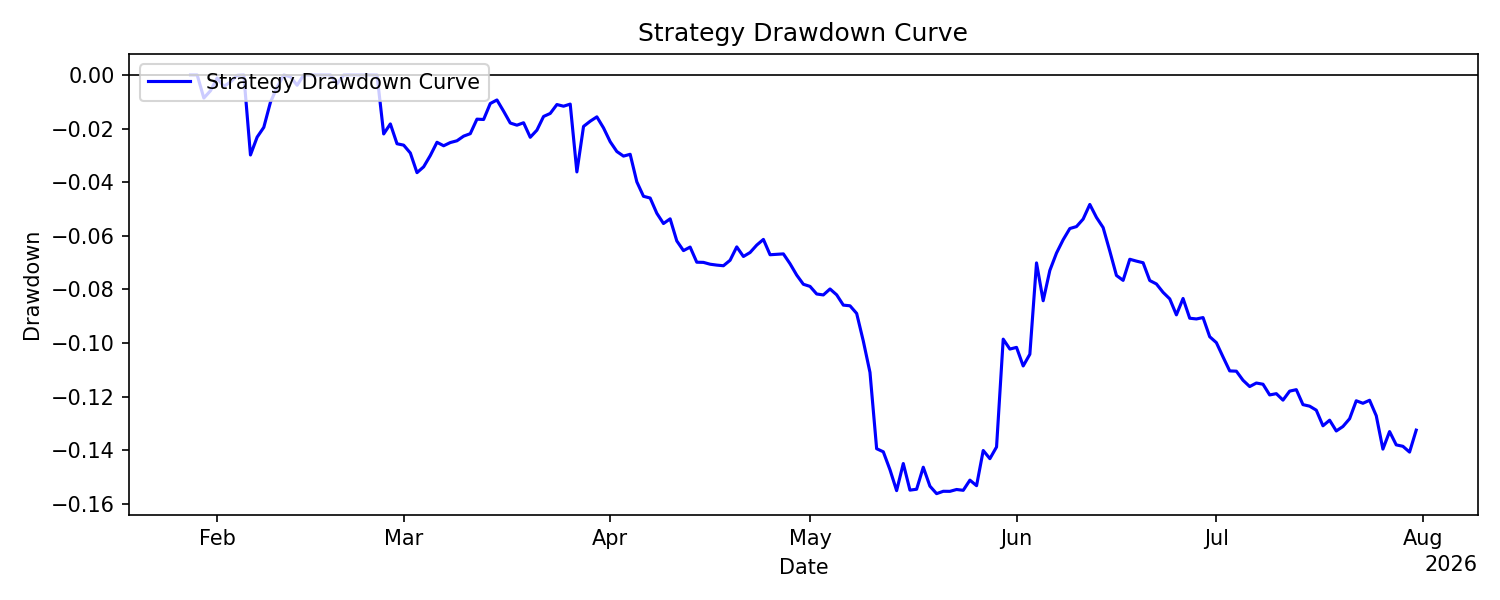
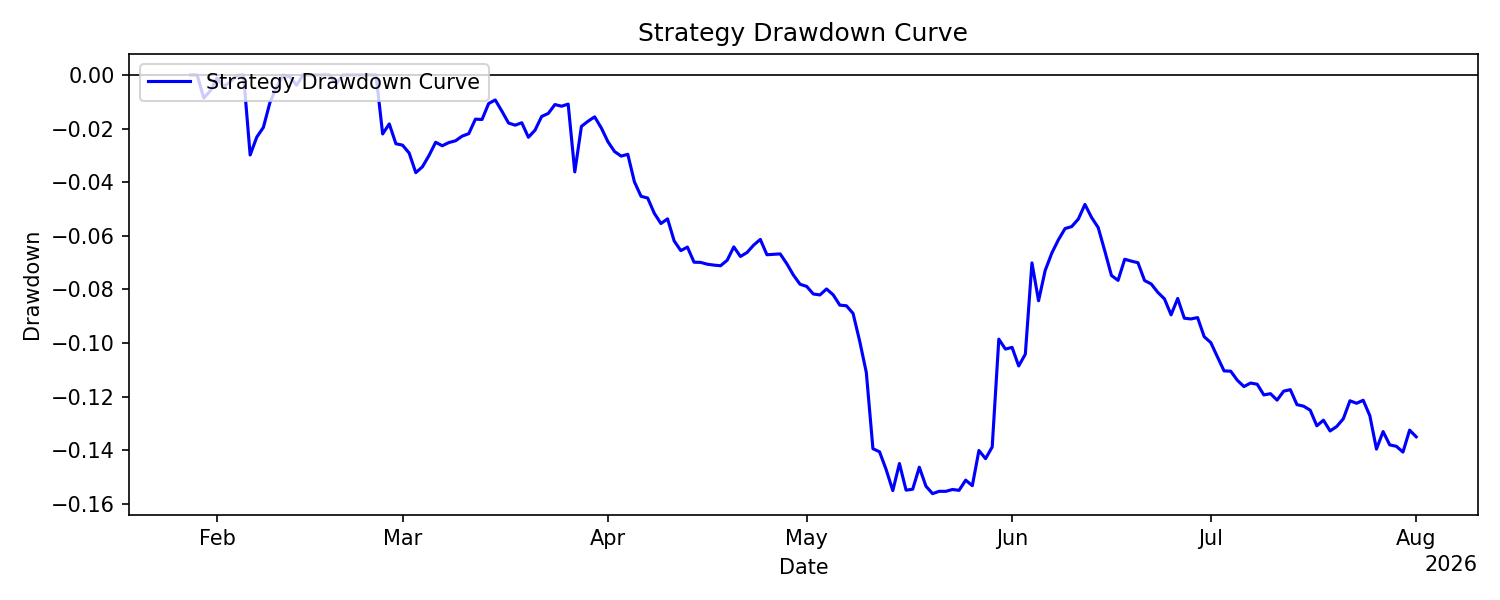
Update reports: 2026-08-01 00:05:08 UTC

diff --git a/README.md b/README.md
@@ -22,28 +22,28 @@ All results are live and reported net of transaction costs and slippage.
 - CSV: `metrics_strategy.csv`
 
 <!-- METRICS_START -->
-| metric                       |       values |
-|:-----------------------------|-------------:|
-| Number of Observations       | 185          |
-| Mean Daily Return            |  -0.00042239 |
-| Daily Volatility             |   0.00846221 |
-| Mean Annualized Return       |  -0.154172   |
-| Annualized Volatility        |   0.16167    |
-| Maximum Drawdown             |  -0.156146   |
-| Max Drawdown Duration (Days) | 156          |
-| Sharpe                       |  -0.953621   |
-| Sortino                      |  -1.31842    |
-| Calmar                       |  -0.98736    |
-| CAGR                         |  -0.153944   |
-| Skewness                     |   0.684124   |
-| Excess Kurtosis              |   8.62538    |
-| Win Rate                     |   0.464865   |
-| Profit Factor                |   0.854236   |
-| VaR 1%                       |  -0.0273487  |
-| CVaR 1%                      |  -0.030925   |
-| VaR 5%                       |  -0.0111828  |
-| CVaR 5%                      |  -0.0201626  |
-| Correlation with BTC         |   0.00270476 |
+| metric                       |        values |
+|:-----------------------------|--------------:|
+| Number of Observations       | 186           |
+| Mean Daily Return            |  -0.000435587 |
+| Daily Volatility             |   0.00844123  |
+| Mean Annualized Return       |  -0.158989    |
+| Annualized Volatility        |   0.16127     |
+| Maximum Drawdown             |  -0.156146    |
+| Max Drawdown Duration (Days) | 157           |
+| Sharpe                       |  -0.985862    |
+| Sortino                      |  -1.36535     |
+| Calmar                       |  -1.01821     |
+| CAGR                         |  -0.157957    |
+| Skewness                     |   0.690079    |
+| Excess Kurtosis              |   8.68079     |
+| Win Rate                     |   0.462366    |
+| Profit Factor                |   0.849676    |
+| VaR 1%                       |  -0.0273189   |
+| CVaR 1%                      |  -0.030925    |
+| VaR 5%                       |  -0.0111456   |
+| CVaR 5%                      |  -0.0201626   |
+| Correlation with BTC         |   0.00617961  |
 <!-- METRICS_END -->
 
 ## Sharpe Statistics
@@ -55,14 +55,14 @@ All results are live and reported net of transaction costs and slippage.
 | metric                     |   values |
 |:---------------------------|---------:|
 | alpha                      |   0.05   |
-| t-statistic                |  -0.6789 |
-| p-value                    |   0.498  |
-| Daily Sharpe Ratio         |  -0.0499 |
-| Annualized Sharpe Ratio    |  -0.9536 |
-| Sharpe Standard Error      |   1.4369 |
-| C.I. Lower Bound           |  -3.7698 |
-| C.I. Upper Bound           |   1.8626 |
-| Bootstrap C.I. Lower Bound |  -4.0551 |
-| Bootstrap C.I. Upper Bound |   2.4853 |
+| t-statistic                |  -0.7038 |
+| p-value                    |   0.4825 |
+| Daily Sharpe Ratio         |  -0.0516 |
+| Annualized Sharpe Ratio    |  -0.9859 |
+| Sharpe Standard Error      |   1.4343 |
+| C.I. Lower Bound           |  -3.7971 |
+| C.I. Upper Bound           |   1.8253 |
+| Bootstrap C.I. Lower Bound |  -4.1541 |
+| Bootstrap C.I. Upper Bound |   2.5208 |
 <!-- SHARPE_END -->
 
